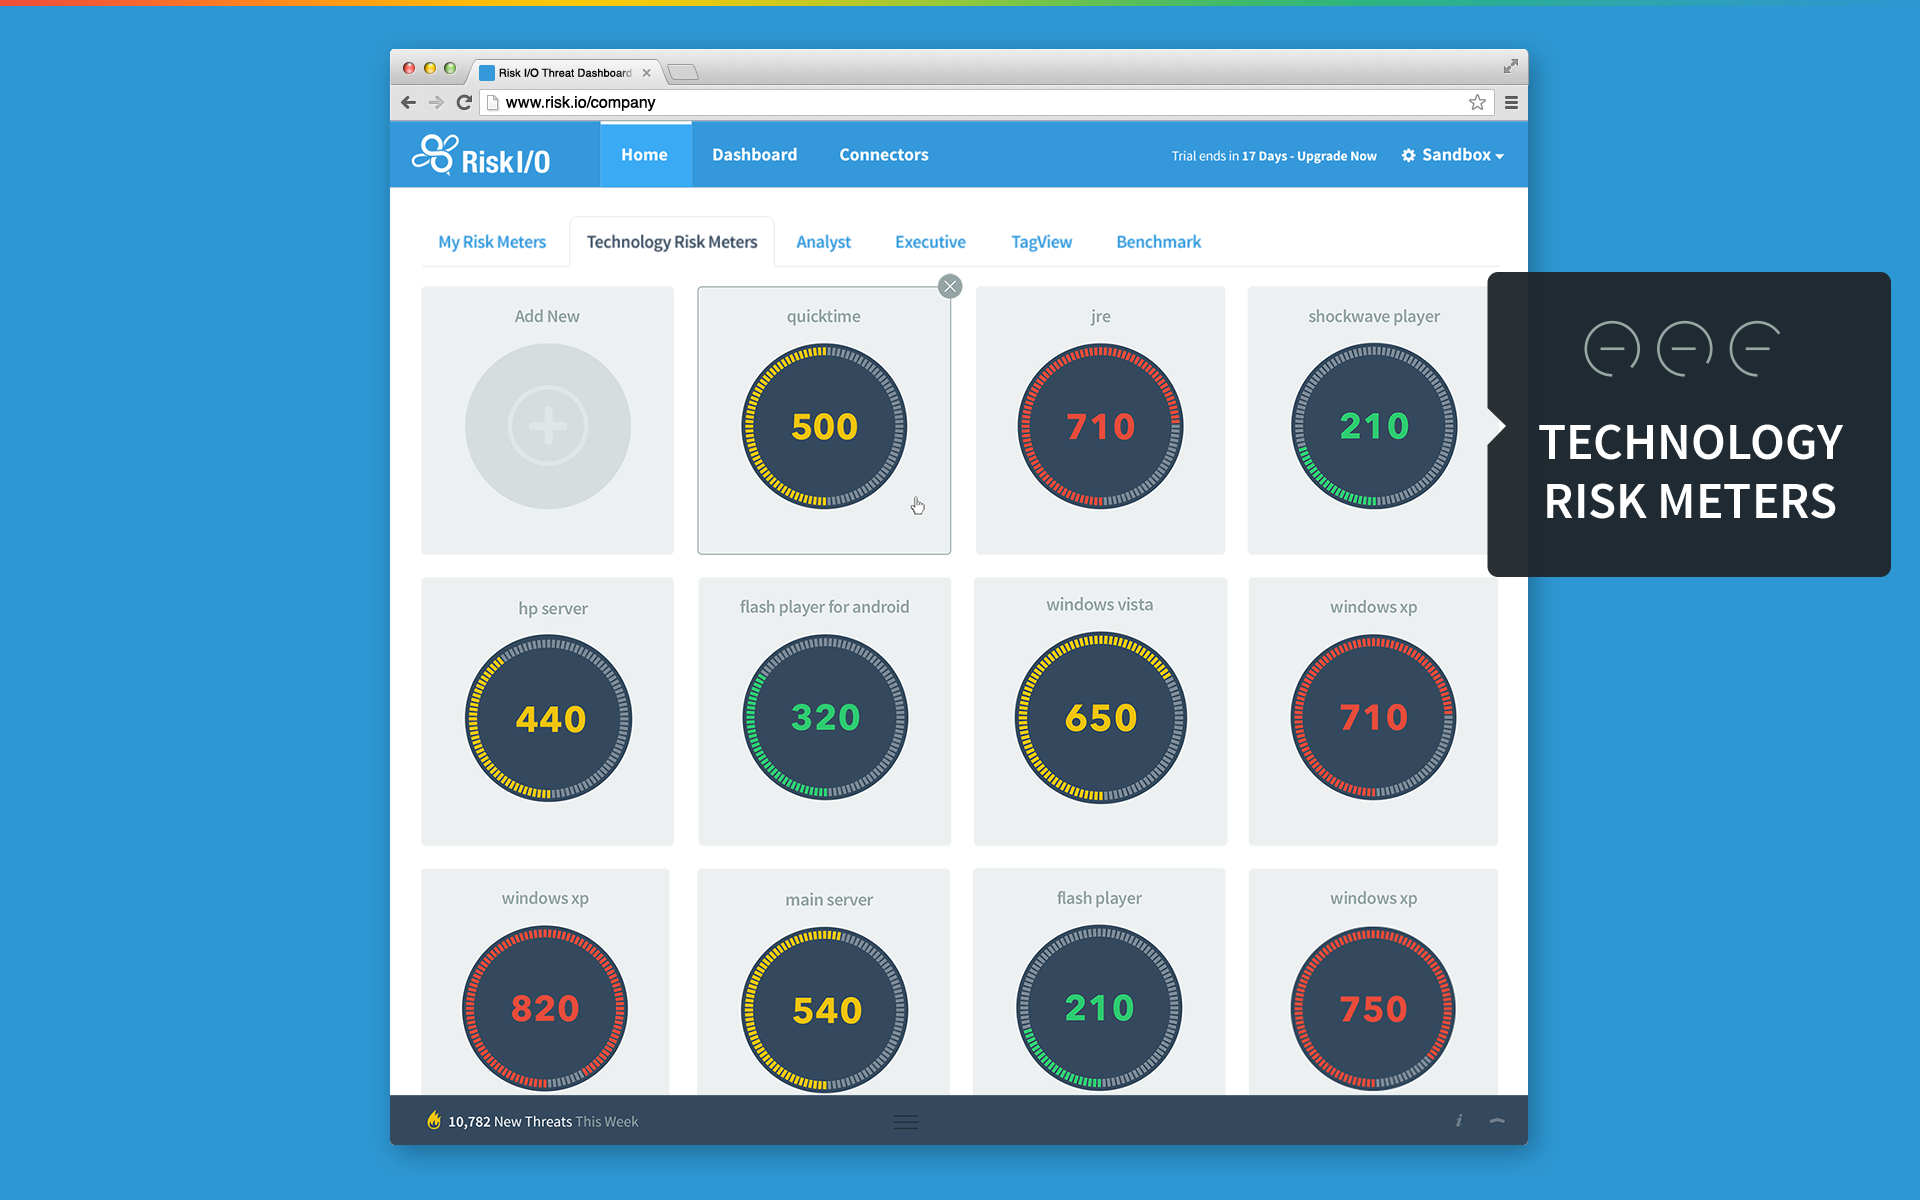
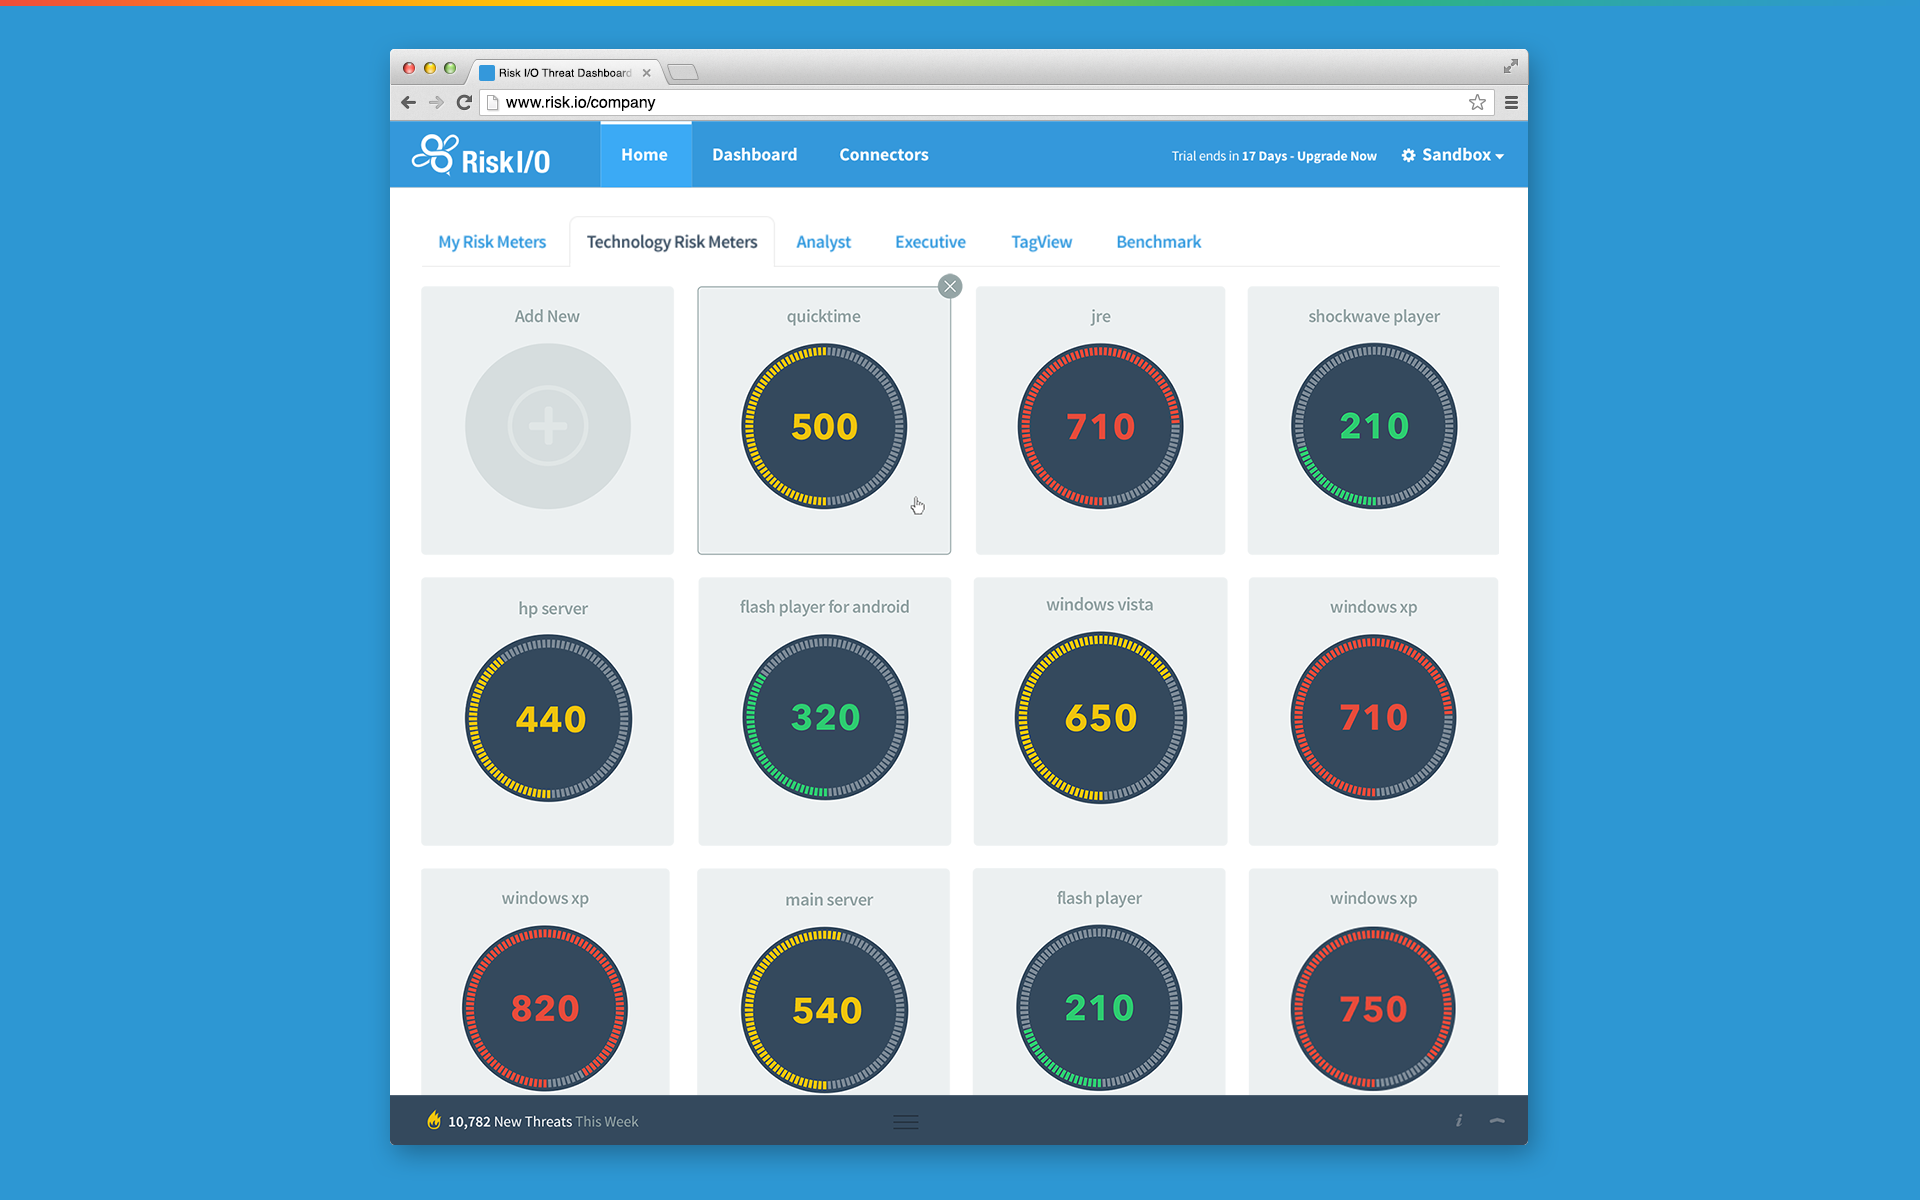
Asset transitions to /2

Changed region(s): [[0.75, 0.2158, 1.0, 0.4933], [0.2812, 0.0617, 0.3125, 0.0925]]

diff --git a/index.html b/index.html
@@ -34,10 +34,27 @@
 			.reveal section img{
 				margin:0 0 0 0;
 				border: 0px;
+				background: none;
+				box-shadow: none;
 			}
 			.reveal img{
 				max-width: 100%;
 				max-height:100%;
+			}
+			#dashboard2{
+				position: absolute;
+				top:866px;
+				left:390px;
+			}
+			#tooltip1{
+				position: absolute;
+				top:271px;
+				right:38px;
+			}
+			#tooltip2{
+				position: absolute;
+				top:858px;
+				left:56px;
 			}
 		</style>
 		<!--[if lt IE 9]>
@@ -57,7 +74,10 @@
 	        	<img width="1920" height="1200" src="slides/2.png" />
 	      	</section>
 	        <section data-transition="none" data-transition-speed="slow">
-	        	<img width="1920" height="1200" src="slides/4.png" />
+	        	<img width="1920" height="1200" src="slides/3.png" />
+	        	<img id="dashboard2" class="fragment roll-in" src="slides/assets/threat_trends.png"/>
+	        	<img id="tooltip1" class="fragment" src="slides/assets/tooltip1.png" />
+	        	<img id="tooltip2" class="fragment" src="slides/assets/tooltip2.png" />
 	      	</section>
 	        <section data-transition="none" data-transition-speed="slow">
 	        	<img width="1920" height="1200" src="slides/5.png" />
@@ -98,6 +118,7 @@
 				maxScale: 1.0,
 				margin: 0,
 				backgroundTransition: 'none',
+				fragments: true,
 
 
 				theme: Reveal.getQueryHash().theme, // available themes are in /css/theme
@@ -118,7 +139,16 @@
 					{ src: 'js/fullscreen-img.js'}
 				]
 			});
-
+			Reveal.addEventListener( 'slidechanged', function(event) {
+				setTimeout(function(){
+					Reveal.nextFragment();
+				},1500)
+			});
+			Reveal.addEventListener( 'fragmentshown', function(event){
+				setTimeout(function(){
+					Reveal.nextFragment();
+				},1500)
+			});
 		</script>
 
 	</body>
